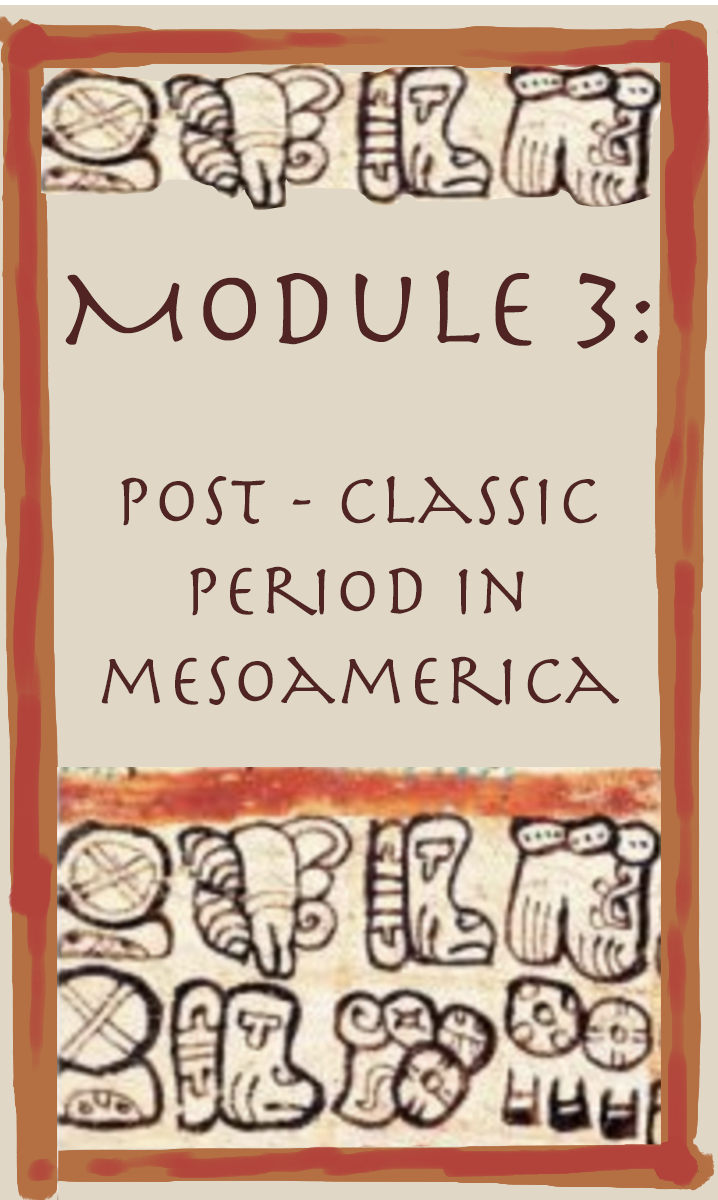
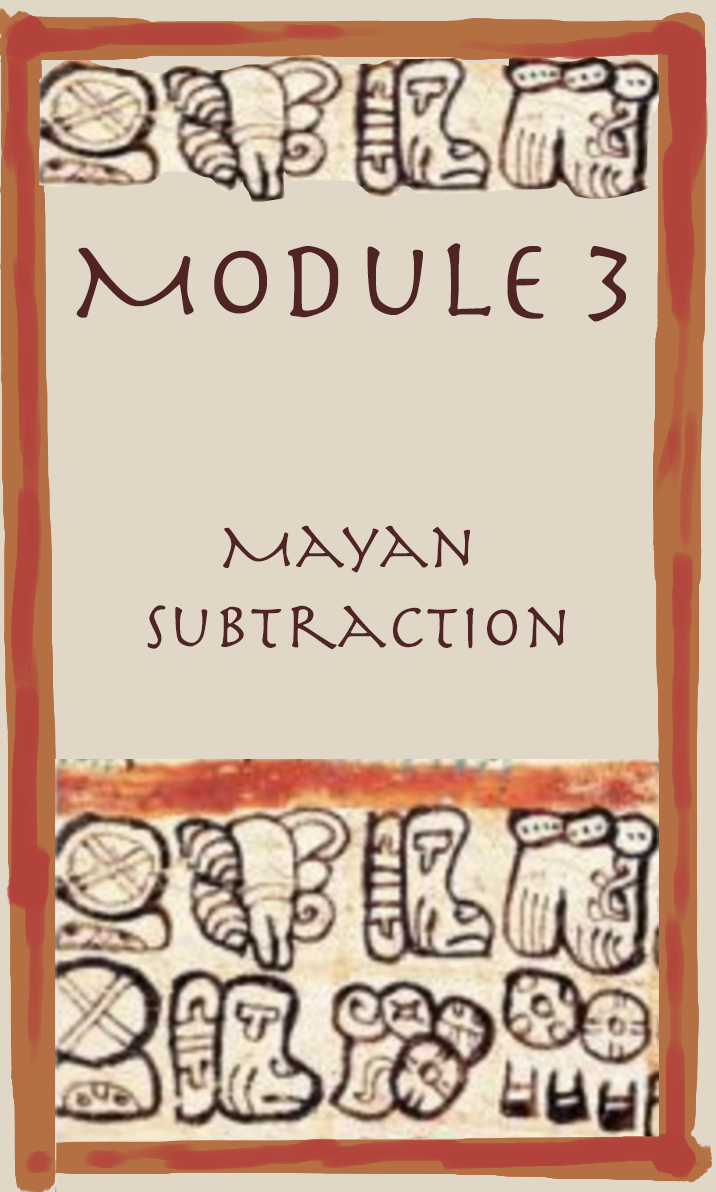
add and subtract modules

diff --git a/src/pages/About.js b/src/pages/About.js
@@ -6,7 +6,10 @@ import titleBackground from "../components/images/title.png";
 import pageOne from "../components/images/pageOne.png";
 import pageTwo from "../components/images/pageTwo.png";
 import pageThree from "../components/images/pageThree.png";
-
+import pageFour from "../components/images/pageFour.png";
+import pageFive from "../components/images/pageFive.png";
+import pageSix from "../components/images/pageSix.png";
+import pageSeven from "../components/images/mp8.png";
 
 function MyBook(props) {
   return (
@@ -19,18 +22,38 @@ function MyBook(props) {
             </div>
           </div>
           <div className="demoPage">
-          <div className="pageContent">
+            <div className="pageContent">
               <div className="page-image" style={{backgroundImage: `url(${pageOne})`, width: "1000px", height: "1000px"}}>Page 2</div>
             </div>
           </div>
           <div className="demoPage">
-          <div className="pageContent">
+            <div className="pageContent">
               <div className="page-image" style={{backgroundImage: `url(${pageTwo})`, width: "1000px", height: "1000px"}}>Page 3</div>
             </div>
           </div>
           <div className="demoPage">
-          <div className="pageContent">
-              <div className="page-image" style={{backgroundImage: `url(${pageThree})`, width: "1000px", height: "1000px"}}>Page 3</div>
+            <div className="pageContent">
+              <div className="page-image" style={{backgroundImage: `url(${pageThree})`, width: "1000px", height: "1000px"}}>Page 4</div>
+            </div>
+          </div>
+          <div className="demoPage">
+            <div className="pageContent">
+              <div className="page-image" style={{backgroundImage: `url(${pageFour})`, width: "1000px", height: "1000px"}}>Page 5</div>
+            </div>
+          </div>
+          <div className="demoPage">
+            <div className="pageContent">
+              <div className="page-image" style={{backgroundImage: `url(${pageFive})`, width: "1000px", height: "1000px"}}>Page 6</div>
+            </div>
+          </div>
+          <div className="demoPage">
+            <div className="pageContent">
+              <div className="page-image" style={{backgroundImage: `url(${pageSix})`, width: "1000px", height: "1000px"}}>Page 7</div>
+            </div>
+          </div>
+          <div className="demoPage">
+            <div className="pageContent">
+              <div className="page-image" style={{backgroundImage: `url(${pageSeven})`, width: "1000px", height: "1000px"}}>Page 8</div>
             </div>
           </div>
         </HTMLFlipBook>

diff --git a/src/pages/ModThree.js b/src/pages/ModThree.js
@@ -1,16 +1,52 @@
 import React from "react";
 import Navigation from "../components/Navigation";
 import "../styles.css";
+import HTMLFlipBook from "react-pageflip";
+import titleBackground from "../components/images/sp1.png";
+import pageOne from "../components/images/sp2.png";
+import pageTwo from "../components/images/sp3.png";
+import pageThree from "../components/images/ap4.png";
+import pageFour from "../components/images/ap5.png";
+import pageFive from "../components/images/ap6.png";
 
-export default function ModThree() {
+function ModThree(props) {
   return (
-    <div className="about">
+    <div className="myBook">
       <Navigation />
-      <div className="container">
-        <div className="row" style={{marginTop: "20%"}}>
-
-        </div>
-      </div>
+        <HTMLFlipBook width={1000} height={800}>
+          <div className="demoPage">
+            <div className="pageContent">
+              <div className="page-image" style={{backgroundImage: `url(${titleBackground})`, width: "1000px", height: "1000px"}}>Page 1</div>
+            </div>
+          </div>
+          <div className="demoPage">
+            <div className="pageContent">
+              <div className="page-image" style={{backgroundImage: `url(${pageOne})`, width: "1000px", height: "1000px"}}>Page 2</div>
+            </div>
+          </div>
+          <div className="demoPage">
+            <div className="pageContent">
+              <div className="page-image" style={{backgroundImage: `url(${pageTwo})`, width: "1000px", height: "1000px"}}>Page 3</div>
+            </div>
+          </div>
+          <div className="demoPage">
+            <div className="pageContent">
+              <div className="page-image" style={{backgroundImage: `url(${pageThree})`, width: "1000px", height: "1000px"}}>Page 4</div>
+            </div>
+          </div>
+          <div className="demoPage">
+            <div className="pageContent">
+              <div className="page-image" style={{backgroundImage: `url(${pageFour})`, width: "1000px", height: "1000px"}}>Page 5</div>
+            </div>
+          </div>
+          <div className="demoPage">
+            <div className="pageContent">
+              <div className="page-image" style={{backgroundImage: `url(${pageFive})`, width: "1000px", height: "1000px"}}>Page 6</div>
+            </div>
+          </div>
+        </HTMLFlipBook>
     </div>
   );
 }
+
+export default ModThree;

diff --git a/src/pages/ModTwo.js b/src/pages/ModTwo.js
@@ -1,16 +1,52 @@
 import React from "react";
 import Navigation from "../components/Navigation";
 import "../styles.css";
+import HTMLFlipBook from "react-pageflip";
+import titleBackground from "../components/images/ap1.png";
+import pageOne from "../components/images/ap2.png";
+import pageTwo from "../components/images/ap3.png";
+import pageThree from "../components/images/ap4.png";
+import pageFour from "../components/images/ap5.png";
+import pageFive from "../components/images/ap6.png";
 
-export default function ModTwo() {
+function ModTwo(props) {
   return (
-    <div className="about">
+    <div className="myBook">
       <Navigation />
-      <div className="container">
-        <div className="row" style={{marginTop: "20%"}}>
-
-        </div>
-      </div>
+        <HTMLFlipBook width={1000} height={800}>
+          <div className="demoPage">
+            <div className="pageContent">
+              <div className="page-image" style={{backgroundImage: `url(${titleBackground})`, width: "1000px", height: "1000px"}}>Page 1</div>
+            </div>
+          </div>
+          <div className="demoPage">
+            <div className="pageContent">
+              <div className="page-image" style={{backgroundImage: `url(${pageOne})`, width: "1000px", height: "1000px"}}>Page 2</div>
+            </div>
+          </div>
+          <div className="demoPage">
+            <div className="pageContent">
+              <div className="page-image" style={{backgroundImage: `url(${pageTwo})`, width: "1000px", height: "1000px"}}>Page 3</div>
+            </div>
+          </div>
+          <div className="demoPage">
+            <div className="pageContent">
+              <div className="page-image" style={{backgroundImage: `url(${pageThree})`, width: "1000px", height: "1000px"}}>Page 4</div>
+            </div>
+          </div>
+          <div className="demoPage">
+            <div className="pageContent">
+              <div className="page-image" style={{backgroundImage: `url(${pageFour})`, width: "1000px", height: "1000px"}}>Page 5</div>
+            </div>
+          </div>
+          <div className="demoPage">
+            <div className="pageContent">
+              <div className="page-image" style={{backgroundImage: `url(${pageFive})`, width: "1000px", height: "1000px"}}>Page 6</div>
+            </div>
+          </div>
+        </HTMLFlipBook>
     </div>
   );
 }
+
+export default ModTwo;
